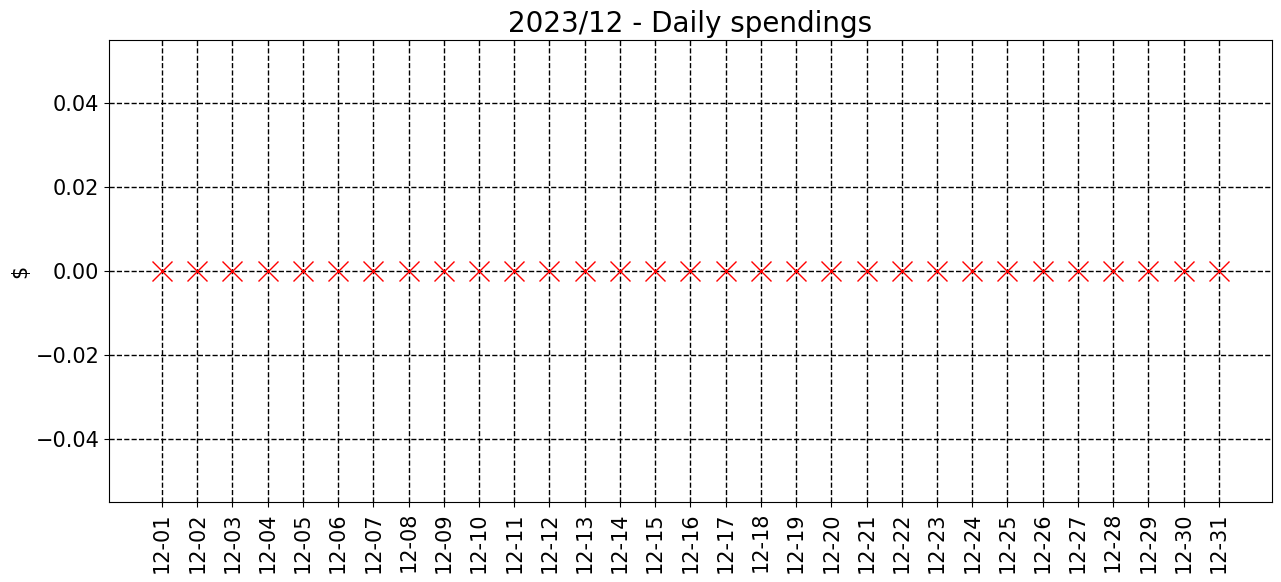
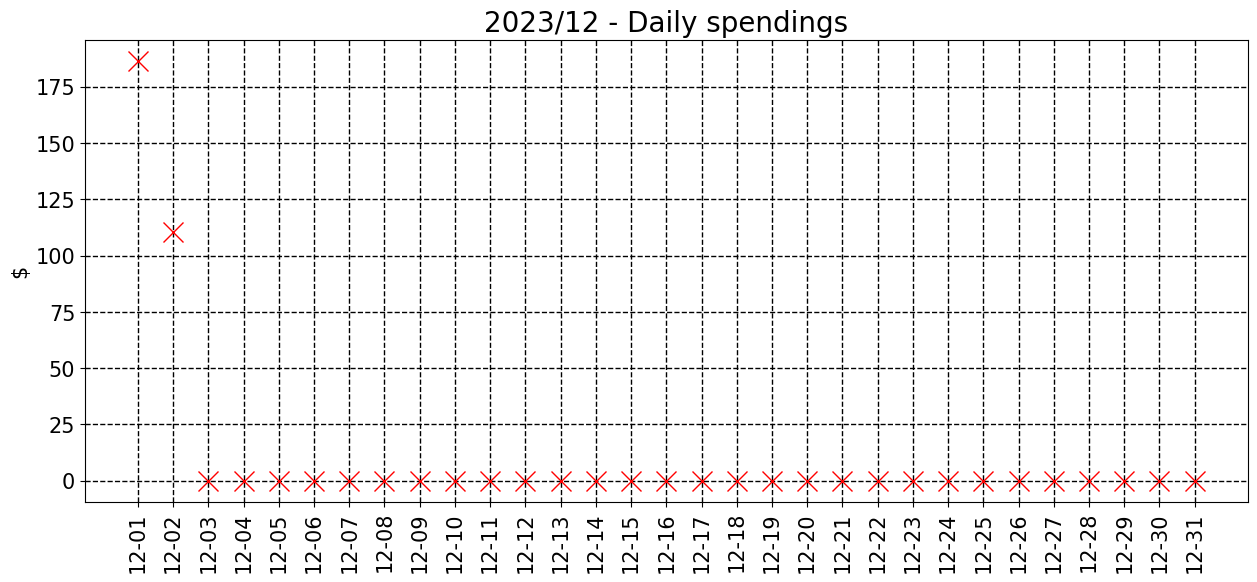
commit from python

Changed region(s): [[0.031, 0.0, 1.0, 0.9897]]

diff --git a/README.md b/README.md
@@ -7,7 +7,7 @@ __________________________________
 <sub><sup>
 | Spent | Avg daily | End of month projection | Spent since 2023/7 |
 |---|---|---|---|
-| $0.0  |  $0.0  | $0.0  |  $27570.0  |
+| $297.0  |  $148.5  | $4604.0  |  $27867.0  |
 </sub></sup>
 __________________________________
 ![graph_12_sum](graph_12_sum.png)
